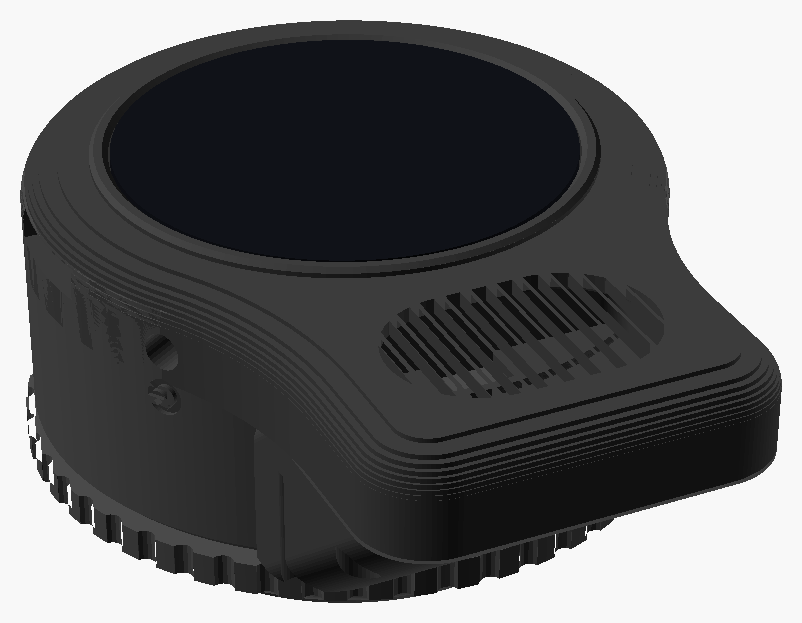
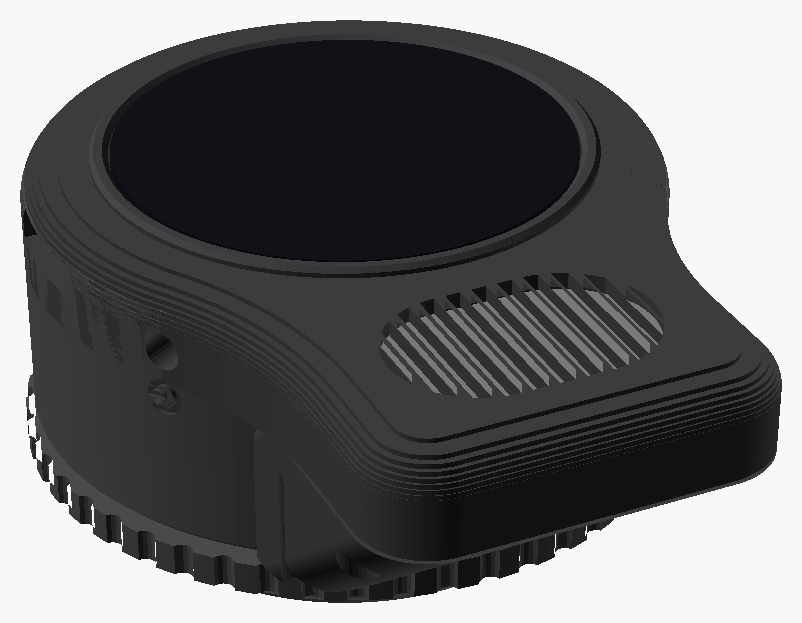
Show the housings at an angle side by side, the speaker housing first
The side-by-side picture now shows both housings from the same angle as
their own pictures, so their sides show, still to scale, with the
speaker housing first, as in the README's table. The speaker is drawn
behind the grille, in a lighter grey, so the grille shows up.

Changed region(s): [[0.4676, 0.4575, 0.8416, 0.6404]]

diff --git a/README.md b/README.md
@@ -6,7 +6,7 @@ What started as a simple application to display images on Waveshare displays has
 
 ![The housings, to scale](docs/images/housings_to_scale.png)
 
-*The two housings, to scale: the low-profile housing (left) and the speaker housing (right).*
+*The two housings, to scale: the speaker housing (left) and the low-profile housing (right).*
 
 ## What it does
 
@@ -32,8 +32,8 @@ There are two 3D printable housings for it that screw into the mask's voice port
 
 | | |
 |---|---|
-| ![The low-profile housing](docs/images/low_profile_housing_1_75.png) | **[Low-profile housing](docs/hardware/waveshare_esp32s3_touch_amoled_1_75.md#the-low-profile-housing)** (designed, not printed yet): the entry-level build, without a speaker, for images, voice displays, Lovense control and the phone remote.  A flat battery for about 4.5-5.5 hours and the thread fixed to the back, standing about 23 mm out of the mask. |
 | ![The speaker housing](docs/images/speaker_housing_1_75.png) | **[Speaker housing](docs/hardware/waveshare_esp32s3_touch_amoled_1_75.md#the-speaker-housing)**: every feature, including sound and voice effects, with a speaker below the display that faces out, and a 2000 mAh battery for about 13.5 hours.  A turning collar holds it level. |
+| ![The low-profile housing](docs/images/low_profile_housing_1_75.png) | **[Low-profile housing](docs/hardware/waveshare_esp32s3_touch_amoled_1_75.md#the-low-profile-housing)** (designed, not printed yet): the entry-level build, without a speaker, for images, voice displays, Lovense control and the phone remote.  A flat battery for about 4.5-5.5 hours and the thread fixed to the back, standing about 23 mm out of the mask. |
 
 The housings' designs are in [`hardware/`](hardware/), in [OpenSCAD](https://openscad.org/).  The firmware also runs on a few other Waveshare round displays, which may be useful for other projects (see [Other Boards](docs/other-boards.md)).
 
